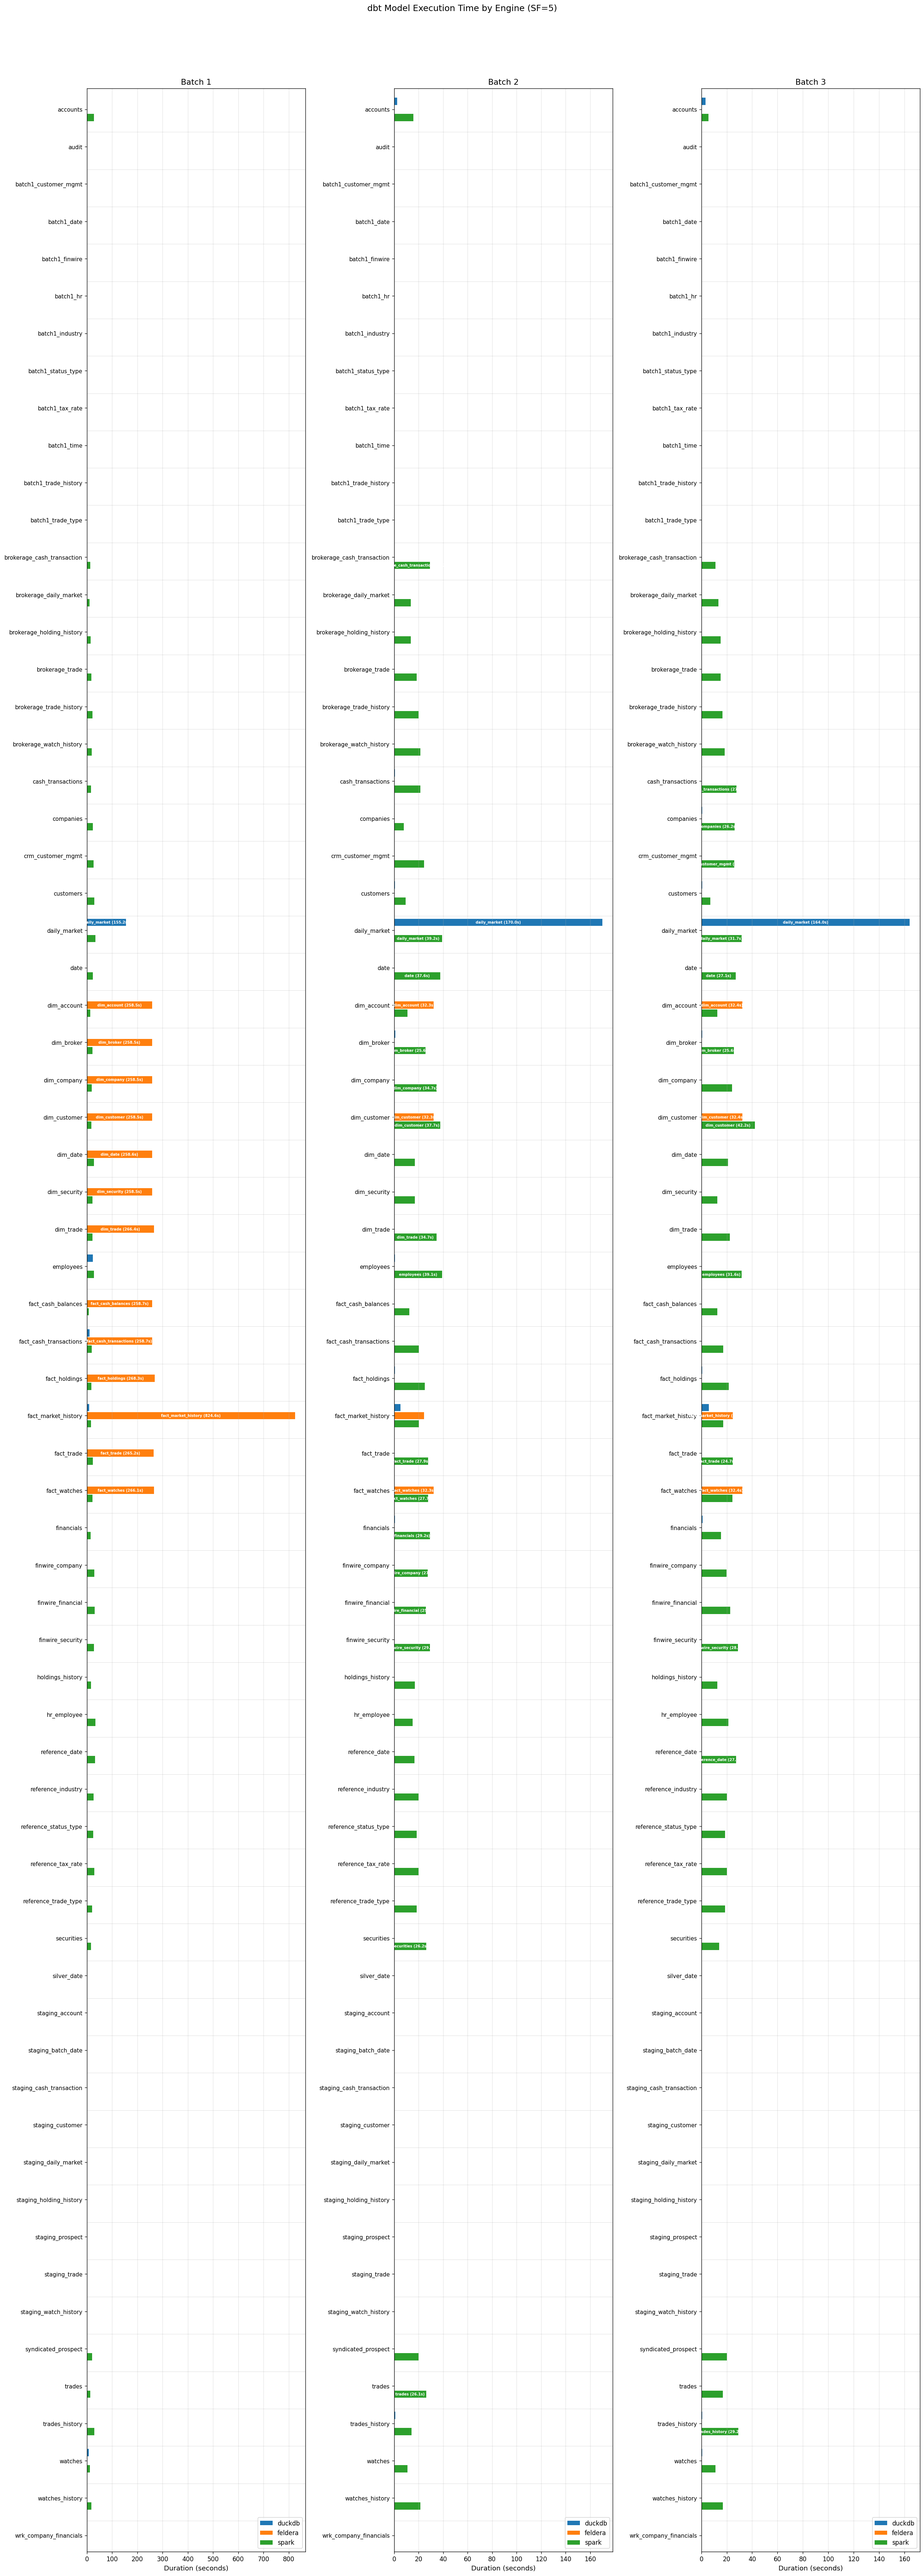
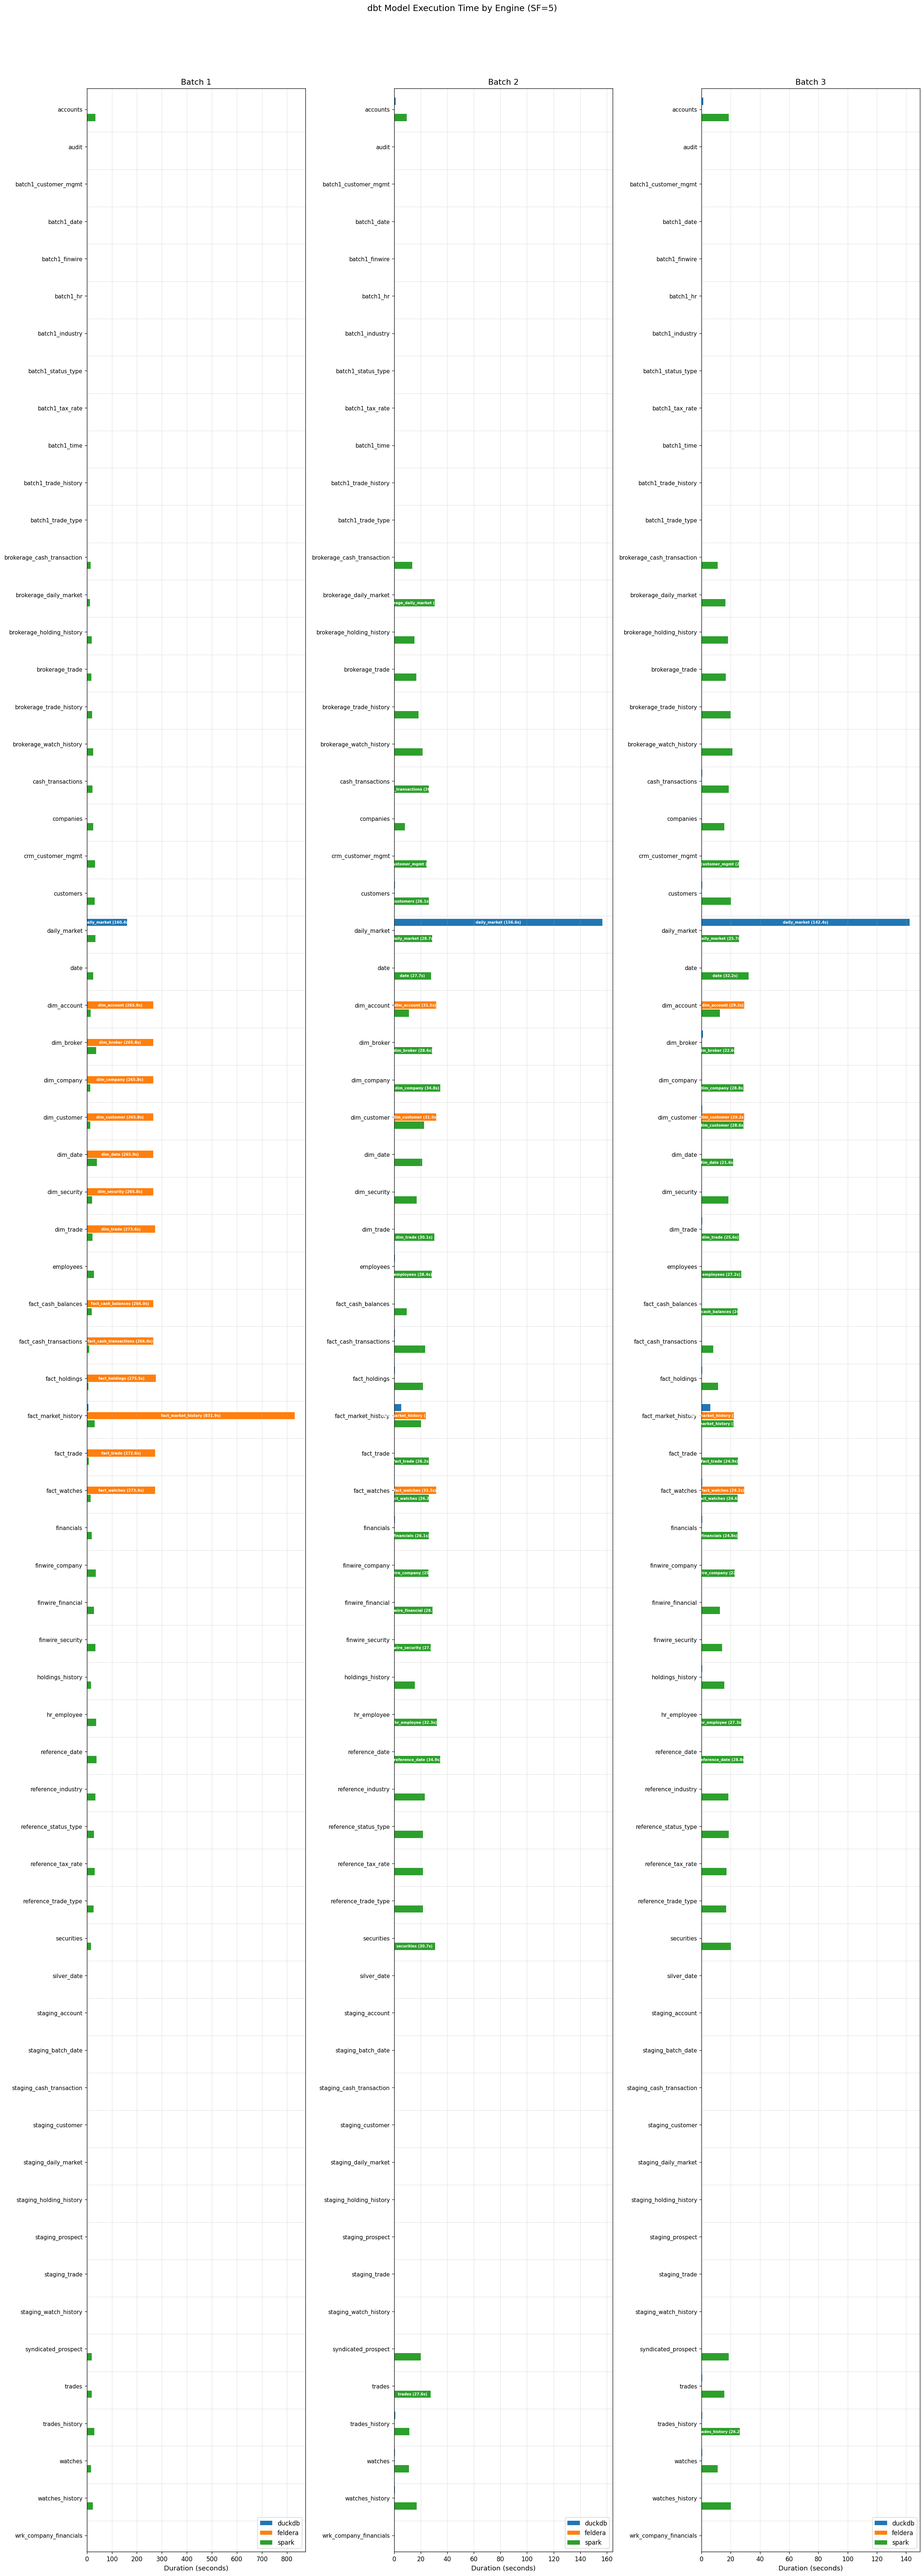
Feldera latency calculation was wrong - we must poll transaction_status

diff --git a/src/containers/dbt-server/app.py b/src/containers/dbt-server/app.py
@@ -325,11 +325,40 @@ def _feldera_wait_for_all_delta_commits(start_time_epoch_s):
     return False, _get_latest_delta_commit_ts()
 
 
-def _feldera_wait_for_delta_settle(start_time_epoch_s, settle_seconds=30):
+def _feldera_wait_for_commit_done():
     """
-    After pipeline is idle, wait for Delta commits to settle (no new commits
-    appearing for settle_seconds). Used for batch 2/3 where not all tables
-    may be updated.
+    Poll Feldera stats until the internal commit/checkpoint is complete.
+    Returns True when transaction_status is NoTransaction (commit finished).
+    Must be called AFTER _feldera_poll_until_idle().
+    """
+    deadline = time.monotonic() + FELDERA_POLL_TIMEOUT_S
+    app.logger.info("Waiting for Feldera commit to complete (transaction_status -> NoTransaction)")
+
+    while time.monotonic() < deadline:
+        stats = _feldera_get_stats()
+        if not stats:
+            time.sleep(FELDERA_POLL_INTERVAL_S)
+            continue
+
+        gm = stats.get("global_metrics", {})
+        tx_status = gm.get("transaction_status", "NoTransaction")
+
+        if tx_status == "NoTransaction":
+            app.logger.info("Feldera commit complete (transaction_status=NoTransaction)")
+            return True
+
+        app.logger.info("Feldera commit in progress (transaction_status=%s)", tx_status)
+        time.sleep(FELDERA_POLL_INTERVAL_S)
+
+    app.logger.error("Timeout waiting for Feldera commit to complete")
+    return False
+
+
+def _feldera_wait_for_delta_settle(start_time_epoch_s, settle_seconds=3):
+    """
+    After pipeline commit is done, wait briefly for Delta output flush.
+    Uses a short settle window (default 3s) since outputs flush during/immediately
+    after the commit. Used for batch 2/3 where not all tables may be updated.
     Returns (success: bool, commit_times: dict).
     """
     deadline = time.monotonic() + FELDERA_POLL_TIMEOUT_S
@@ -355,14 +384,14 @@ def _feldera_wait_for_delta_settle(start_time_epoch_s, settle_seconds=30):
         if current_max_ts == 0:
             # No commits after start_time yet — keep waiting
             stable_since = None
-            time.sleep(FELDERA_POLL_INTERVAL_S)
+            time.sleep(1)
             continue
 
         if current_max_ts > last_max_ts:
             # New commit appeared — reset settle timer
             last_max_ts = current_max_ts
             stable_since = time.monotonic()
-            time.sleep(FELDERA_POLL_INTERVAL_S)
+            time.sleep(1)
             continue
 
         # No new commits since last check
@@ -374,7 +403,7 @@ def _feldera_wait_for_delta_settle(start_time_epoch_s, settle_seconds=30):
             )
             return True, commit_times
 
-        time.sleep(FELDERA_POLL_INTERVAL_S)
+        time.sleep(1)
 
     app.logger.error("Timeout waiting for Delta commits to settle")
     return False, _get_latest_delta_commit_ts()
@@ -506,6 +535,12 @@ def run_dbt(run_id: str, engine: str, scale_factor: int, full_refresh: bool):
             success, _ = _feldera_poll_until_idle(baseline_input=0)
             if not success:
                 _fail_run(run_id, "Feldera pipeline did not reach idle state within timeout", time.monotonic() - start_ts)
+                _cleanup_progress(run_id)
+                return
+
+            # Wait for internal commit to complete
+            if not _feldera_wait_for_commit_done():
+                _fail_run(run_id, "Feldera commit did not complete within timeout", time.monotonic() - start_ts)
                 _cleanup_progress(run_id)
                 return
 
@@ -1065,7 +1100,14 @@ def wait_feldera():
             "pipeline_stats": final_stats,
         }), 504
 
-    # Wait for Delta commits to settle (not all tables may be updated in batch 2/3)
+    # Wait for internal commit to complete (checkpoint written to storage)
+    if not _feldera_wait_for_commit_done():
+        return jsonify({
+            "error": "Feldera commit did not complete within timeout",
+            "pipeline_stats": final_stats,
+        }), 504
+
+    # Brief wait for Delta output flush (outputs flush during/right after commit)
     success, _ = _feldera_wait_for_delta_settle(start_epoch_s)
     if not success:
         return jsonify({
